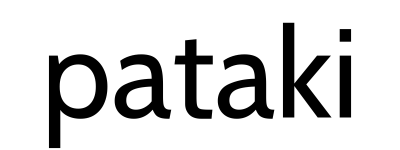
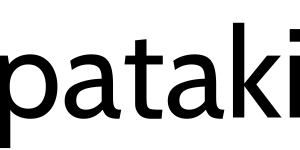
íconos en call action y menu mobile por terminar

Changed region(s): [[0.0, 0.1333, 1.0, 0.9867], [0.96, 0.1867, 1.0, 0.2933]]

diff --git a/src/app/components/header/Header.js b/src/app/components/header/Header.js
@@ -3,13 +3,14 @@ import Logo from "../global/Logo";
 import Navbar from "../global/Navbar";
 import CallAction from "../global/CallAction";
 import IconBox from "../global/IconBox";
+import MenuMobile from "../global/MenuMobile";
 
 export default function Header({ data }) {
     if (!data || Object.keys(data).length === 0) {
         return null; // Devuelve null si no hay datos
     }
 
-    const { type, global, logo, navbar, callAction, icons } = data;
+    const { type, global, logo, navbar, callAction, icons, menuMobile } = data;
 
     // Valores globales
     const {
@@ -77,7 +78,9 @@ export default function Header({ data }) {
                     hoverTextColor, 
                     transition,
                     fontFamily,
-                    paddingY
+                    paddingY,
+                    icon,
+                    iconPosition,
                 } = item;
         
                 return (
@@ -96,10 +99,17 @@ export default function Header({ data }) {
                         hoverTextColor={hoverTextColor}
                         transition={transition}
                         paddingY={paddingY}
+                        icon={icon}
+                        iconPosition={iconPosition}
                     />
                 );
             })}
         </div>
+    ) : null;
+
+    // Componente MenuMobile
+    const showMenuMobile = menuMobile && Object.keys(menuMobile).length > 0 ? (
+        <MenuMobile color={menuMobile.color} />
     ) : null;
     
     // Determinar contenido según el tipo
@@ -142,15 +152,20 @@ export default function Header({ data }) {
     } else if (type === 6) {
         content = (
             <>
-                {showLogo}
+                <div className="flex gap-3 items-center">
+                    {showMenuMobile}
+                    {showLogo}
+                </div>
                 {showNavbar}
                 {showIcons}
             </>
         );
     } else if (type === 7) {
         content = (
-            <>
-                {showLogo}
+            <>  <div>
+                    {showLogo}
+                    {showMenuMobile}
+                </div>
                 <div className="flex gap-10 items-center">
                     {showCallAction}
                     {showIcons}

diff --git a/src/app/components/global/CallAction.js b/src/app/components/global/CallAction.js
@@ -1,8 +1,16 @@
 import Link from "next/link";
+import IgIcon from "../ui/icons/ig";
+import FbIcon from "../ui/icons/fb";
+import InternetIcon from "../ui/icons/internet";
+import QuestionIcon from "../ui/icons/question";
+import PersonIcon from "../ui/icons/person";
 
 export default function CallAction({ 
     text, 
     href,
+    icon, // Icono del botón
+    iconPosition = "left", // Posición del icono
+    iconColor = null, // Color del icono
     borderWidth = null, // Ancho del borde
     borderColor = null, // Color del borde
     borderRadius = null, // Radio de borde
@@ -18,6 +26,18 @@ export default function CallAction({
     if(!text || text === "") {
         return null;
     }
+
+    const iconComponents = {
+        ig: IgIcon,
+        fb: FbIcon,
+        internet: InternetIcon,
+        question: QuestionIcon,
+        person: PersonIcon
+    };
+
+    const IconComponent = iconComponents[icon];
+
+    console.log("icon", icon)
 
     const borderWidthClasses = {
         small: "border",
@@ -47,9 +67,9 @@ export default function CallAction({
         barlow: "font-barlow",
         oswald: "font-oswald"
     };
-
+    console.log("IconComponent", IconComponent)
     return (
-        <Link href={href}>
+        <Link href={href} className="hidden lg:block">
             <button className={`
                     ${borderWidth && borderWidthClasses[borderWidth]} 
                     ${borderColor}
@@ -62,8 +82,14 @@ export default function CallAction({
                     ${hoverTextColor}
                     ${transition && "transition duration-200"}
                     ${paddingYClasses[paddingY]}
-                    px-4 transform flex items-center justify-center`}>
+                    px-4 transform flex items-center justify-center gap-2 `}>
+                {icon && iconPosition === "left" ? (
+                    <IconComponent width="20px" height="20px" fill="currentColor"/>
+                ) : null}
                 {text}
+                {icon && iconPosition === "right" ? (
+                    <IconComponent width="20px" height="20px" fill="currentColor"/>
+                ) : null}
             </button>
         </Link>
     )

diff --git a/src/app/components/global/MenuMobile.js b/src/app/components/global/MenuMobile.js
@@ -1,0 +1,60 @@
+"use client"
+import { useState } from "react";
+import MenuIcon from "../ui/icons/menu";
+import CloseIcon from "../ui/icons/close";
+
+export default function MenuMobile({ 
+    color
+}) {
+    const [isMenuOpen, setIsMenuOpen] = useState(false);
+    const [isVisible, setIsVisible] = useState(false);
+
+    const toggleMenu = () => {
+        if (isMenuOpen) {
+          // Comienza la animación de desaparición
+          setIsVisible(false);
+          setTimeout(() => setIsMenuOpen(false), 500); // Espera a que termine la animación
+        } else {
+          // Muestra el menú y aplica la animación
+          setIsMenuOpen(true);
+          setTimeout(() => setIsVisible(true), 0); // Forzar la transición en el siguiente ciclo
+        }
+      };
+
+    const animation = isVisible ? "opacity-100" : "opacity-0";
+    
+    return (
+        <>
+        <button className="lg:hidden" onClick={toggleMenu}>
+            <MenuIcon className="w-8 h-8" stroke={color} />
+        </button>
+
+        
+        {isMenuOpen && ( <div
+            className={`fixed inset-0 bg-gray-800 px-10 z-50 flex text-white transition-opacity duration-200 ${animation}`}
+        >
+            <button
+                className="absolute top-5 right-5 text-2xl bg-red-500 p-2 rounded-full"
+                onClick={toggleMenu}
+            >
+                <CloseIcon className="w-5 h-5" fill={color} />
+            </button>
+            <nav className="flex flex-col space-y-6 text-xl">
+                <a href="#home" className="hover:underline">
+                    Inicio
+                </a>
+                <a href="#about" className="hover:underline">
+                    Sobre nosotros
+                </a>
+                <a href="#services" className="hover:underline">
+                    Servicios
+                </a>
+                <a href="#contact" className="hover:underline">
+                    Contacto
+                </a>
+            </nav>
+        </div>)}
+      
+        </>
+    );
+}

diff --git a/src/app/components/global/IconBox.js b/src/app/components/global/IconBox.js
@@ -12,6 +12,10 @@ export default function IconBox({
     hoverColor = null, // Color del ícono al pasar el mouse
     size = "normal"
 }) {
+    if (!icons) {
+        return null;
+    }
+
     // Diccionario de íconos para facilitar el acceso
     const iconComponents = {
         ig: IgIcon,
@@ -36,7 +40,7 @@ export default function IconBox({
     }
 
     return (
-        <div className={`flex ${
+        <div className={` hidden lg:flex ${
             spaceBetweenItemsClasses[spaceBetweenItems]
         }`}>
             {icons.map((iconData, index) => {
@@ -52,9 +56,7 @@ export default function IconBox({
                         aria-label={`Enlace a ${iconData.icon}`}
                         className=" transition-opacity"
                     >
-                        <IconComponent className={`${color} ${hoverColor} ${sizeClasses[size]} transition duration-200`} fill="currentColor" 
-                            
-                        />
+                        <IconComponent className={`${color} ${hoverColor} ${sizeClasses[size]} transition duration-200`} fill="currentColor" />
                     </Link>
                 );
             })}

diff --git a/src/app/mockups.js b/src/app/mockups.js
@@ -194,6 +194,8 @@ export const demo_third = {
                 hoverTextColor: "hover:text-[#C1DF8B]",
                 transition: true,
                 fontFamily: "oswald",
+                icon: "internet",
+                iconPosition: "left",
             },
             {
                 text: "LOG IN",
@@ -208,6 +210,8 @@ export const demo_third = {
                 hoverTextColor: null,
                 transition: true,
                 fontFamily: "oswald",
+                icon: null,
+                iconPosition: null,
             }
         ],
     }
@@ -227,8 +231,8 @@ export const demo_fourth = {
         },
         logo: {
             logoSlug: "/pataki.png",
-            logoWidth: 120,
-            logoHeight: 120
+            logoWidth: 90,
+            logoHeight: 90
         },
         navbar: {
             navItems: [
@@ -259,6 +263,9 @@ export const demo_fourth = {
             color: "text-gray-800",
             hoverColor: "hover:text-red-600",
             size: "small"
+        },
+        menuMobile: {
+            color: "#383c43",
         }
     }
 };

diff --git a/src/app/components/header/HeaderWrapper.js b/src/app/components/header/HeaderWrapper.js
@@ -38,9 +38,9 @@ export default function HeaderWrapper({
     
     // Clases de padding en X
     const paddingXClasses = {
-        high: "px-20",
-        normal: "px-14",
-        low: "px-6",
+        high: "lg:px-20",
+        normal: "lg:px-14",
+        low: "lg:px-6",
     };
 
     // Clases de alineación
@@ -61,7 +61,7 @@ export default function HeaderWrapper({
     return (
         <header className={`
             ${backgroundClass} ${paddingYClasses[paddingY]} ${paddingXClasses[paddingX]} ${positionClass} ${shadowClass}
-            transition-colors duration-300
+            transition-colors duration-300 px-3
         `}>
             <div className={`mx-auto flex items-center ${alignClasses[aligne]}`}>
                 {children}

diff --git a/src/app/components/global/Navbar.js b/src/app/components/global/Navbar.js
@@ -55,7 +55,7 @@ export default function Navbar({
     };
 
     return (
-        <nav className={`flex ${spaceBetweenItemsClasses[spaceBetweenItems]}`}>
+        <nav className={` hidden lg:flex ${spaceBetweenItemsClasses[spaceBetweenItems]}`}>
             {navItems.map((item, index) => (
                 <a key={index} href={item.href} id={`link-${index}`} className={`flex items-center ${fontSizeClasses[fontSize]} ${fontFamilyClasses[fontFamily]} ${hoverUnderline && "hover:underline"} ${color} ${hoverColor} ${hoverTransform && hoverTransformClasses[hoverTransform]} ${weightClasses[itemsWeight]} ${transition && "transition duration-200"} transform`}>
                     {item.text}

diff --git a/src/app/components/ui/icons/close.js b/src/app/components/ui/icons/close.js
@@ -1,0 +1,11 @@
+import * as React from "react"
+const CloseIcon = (props) => (
+  <svg
+    xmlns="http://www.w3.org/2000/svg"
+    viewBox="0 0 1024 1024"
+    {...props}
+  >
+    <path d="M195.2 195.2a64 64 0 0 1 90.496 0L512 421.504 738.304 195.2a64 64 0 0 1 90.496 90.496L602.496 512 828.8 738.304a64 64 0 0 1-90.496 90.496L512 602.496 285.696 828.8a64 64 0 0 1-90.496-90.496L421.504 512 195.2 285.696a64 64 0 0 1 0-90.496z" />
+  </svg>
+)
+export default CloseIcon

diff --git a/src/app/components/ui/icons/menu.js b/src/app/components/ui/icons/menu.js
@@ -1,0 +1,17 @@
+import * as React from "react"
+const MenuIcon = (props) => (
+  <svg
+    xmlns="http://www.w3.org/2000/svg"
+    fill="none"
+    viewBox="0 0 24 24"
+    {...props}
+  >
+    <path
+      strokeLinecap="round"
+      strokeLinejoin="round"
+      strokeWidth={2}
+      d="M4 6h16M4 12h16M4 18h16"
+    />
+  </svg>
+)
+export default MenuIcon
